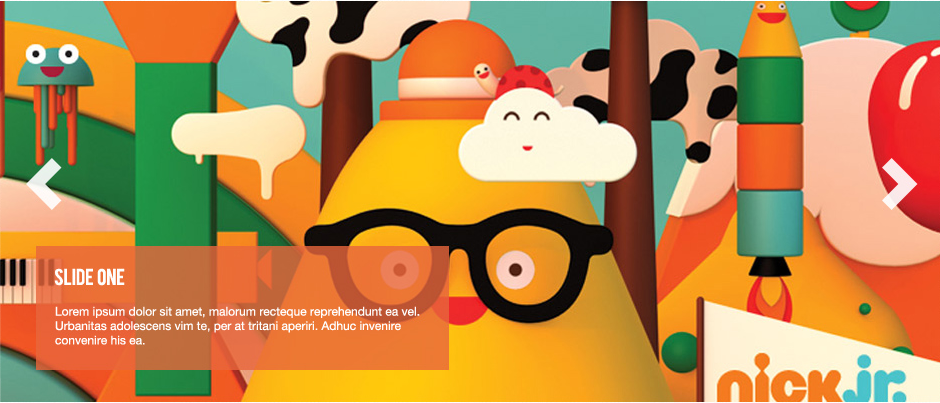
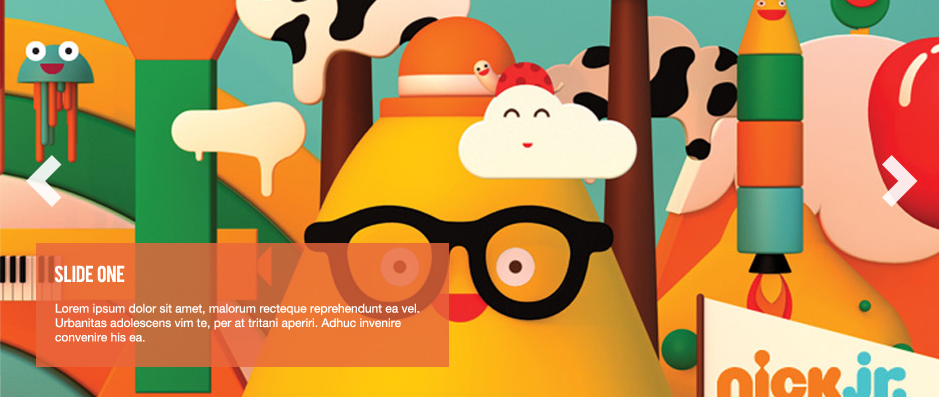
11/07 22/39

diff --git a/css/styles.css b/css/styles.css
@@ -1,7 +1,7 @@
 body{
     color: black;
     font: 12px "Oswald";
-    background-color: #ffffff;
+    background-color: #fff;
     margin: auto;
 }
 
@@ -12,6 +12,11 @@ input[type="text"] {
     color: black;
     padding: 0 10px;
     vertical-align: top;
+}
+
+.container{
+    width: 920px;
+    margin: auto;
 }
 
 p{
@@ -57,17 +62,17 @@ nav li {
     font-weight: bold;
 }
 
-.array_menu li {
+.top-menu li {
     display: inline-block;
     padding: 0 10px;
     margin: 0;
 }
 
-.array_menu li.active {
+.top-menu li.active {
     color: #e9603c;
 }
 
-.array_menu a {
+.top-menu a {
     color: #bababa;
 }
 
@@ -82,19 +87,37 @@ nav{
     display: inline-block;
 }
 
-pol {
-    background: #f3b29e;
-    margin-top: 30px;
-
-
-}
-#pol{
-    height: 50px;
-    background: #f3b29e;
-}
 
 #block1 {
     text-align: center;
+    position: relative;
+    width: 100%;
+    margin: 0 auto;
+}
+
+#block1 img{
+    width: 100%;
+}
+
+#block1::after, #block1::before{
+    position: absolute;
+    background: #f3b29e;
+    content: "";
+    width: 1500px;
+    height: 50px;
+    display: block;
+    top: 0;
+    margin-top: 13px;
+}
+
+#block1::after{
+    left:100%;
+    margin-left: 10px;
+}
+
+#block1::before{
+    right:100%;
+    margin-right: 10px;
 }
 
 #blocks{
@@ -168,11 +191,6 @@ pol {
     padding-right: 17px;
 }
 
-footer {
-    background: #f3b29e;
-    margin-top: 30px;
-}
-
 #footer div {
     display: inline-block;
 }
@@ -180,10 +198,29 @@ footer {
 #footer{
     color: white;
     background-color: #e7663c;
-    max-width: 920px;
-    margin: auto;
     padding: 30px 0;
+    margin-top: 30px;
+    height: 200px;
+    position: relative;
+    width: 100%;
+}
+
+#footer::after, #footer::before{
+    position: absolute;
+    background: #f3b29e;
+    content: "";
+    width: 1500px;
     height: 240px;
+    display: block;
+}
+
+#footer::after{
+    left:100%;
+    margin-left: 10px;
+}
+#footer::before{
+    right:100%;
+    margin-right: 10px;
 }
 
 #footer hf {
@@ -193,19 +230,20 @@ footer {
     font-weight: bold;
 }
 
-#footer p {
-    padding: 10px 30px;
-}
 
 #footer a {
     color: #dbdbdb;
-    padding: 0 30px;
 }
 
 #about-us{
     float: left;
     width: 279px;
     margin: auto;
+}
+
+#about-us p{
+    margin-left: 30px;
+    width: 90%;
 }
 
 #twitterf{
@@ -216,12 +254,21 @@ footer {
 
 #twitterf div{
     display: inline-block;
+    padding-left: 30px;
+    float: left;
+    margin-bottom: 5px;
 }
 
+#twitterf a {
+    text-decoration: none;
+}
 #twitterf p {
-     float: left;
- }
+    width: 100%;
+}
 
+#twitterf author {
+    padding: 0 5px;
+}
 #social{
     width: 279px;
     float: left;
@@ -234,18 +281,6 @@ footer {
     background: url(../images/social.png) no-repeat;
     display: inline-block;
     margin-right: 10px;
-}
-
-.twitter {
-    background-position: 0 0px;
-}
-
-.facebook {
-    background-position: 0 0;
-}
-
-.google-plus {
-    background-position: 0 0;
 }
 
 

diff --git a/index.php b/index.php
@@ -27,7 +27,7 @@ $array_menu = array(
 );
 ?>
         <nav>
-            <ul>
+            <ul class = "top-menu">
                 <li><a href='<?=$array_menu [0] ["href"]?>'><?=$array_menu [0] ["link"]?></a></li>
                 <li><a href='<?=$array_menu [1] ["href"]?>'><?=$array_menu [1] ["link"]?></a></li>
                 <li><a href='<?=$array_menu [2] ["href"]?>'><?=$array_menu [2] ["link"]?></a></li>
@@ -36,69 +36,63 @@ $array_menu = array(
             </ul>
         </nav>
     </header>
-    <pol>
-        <div id="pol">
-        </div>
-    </pol>
-    <block1>
+    <div class="container">
         <div id="block1">
-            <a href="#"><img src="images/img1.png" width="920" height="386"></a>
+            <a href="#"><img src="images/img1.png" width="939" height="397"></a>
         </div>
-    </block1>
-    <div id="blocks">
-        <div id="block2">
-            <a href="#"><img src="images/b21.png" width="141" height="140"></a>
-            <a href="#"><img src="images/b22.png" width="141" height="140"></a>
-            <a href="#"><img src="images/b23.png" width="141" height="140"></a>
-            <a href="#"><img src="images/b24.png" width="141" height="140"></a>
-            <a href="#"><img src="images/b25.png" width="141" height="140"></a>
-            <b href="#"><img src="images/b26.png" width="141" height="140"></b>
-        </div>
-        <block3>
-            <div id="block3">
-                <div id="column1">
-                    <a href="#"><img src="images/b31.png" width="50" height="50"></a>
-                    <h1>CHECK OUT MY LATEST PORTFOLIO ITEMS</h1>
-                    <p>Maecenas ipsum metus, semper  henrerit  varius mattis, congue  sit amet tellus.
-                        Aliquam ullamcorper dui sed magna posue re ut elementum enim  rutrum.
-                        Nam mi erat, porta id ultrices nec, pellentesque vel nunc.
-                        Cras varius fermentum iaculis.
-                        Aenean sodales nibh non lectus tempor a interdum justo ultricies</p>
-                    <button type="submit">MORE</button>
-                </div>
-                <div id="column2">
-                <a href="#"><img src="images/b32.png" width="50" height="50"></a>
-                <h1>OFFER TOP NOTCH QUALITY WORK & SERVICES</h1>
-                    <p>Maecenas ipsum metus, semper  henrerit  varius mattis, congue  sit amet tellus.
-                        Aliquam ullamcorper dui sed magna posue re ut elementum enim  rutrum.
-                        Nam mi erat, porta id ultrices nec, pellentesque vel nunc.
-                        Cras varius fermentum iaculis.
-                        Aenean sodales nibh non lectus tempor a interdum justo ultricies</p>
-                    <button type="submit">MORE</button>
-                </div>
-                <div id="column3">
-                <a href="#"><img src="images/b33.png" width="50" height="50"></a>
-                <h1>FOLLOW ME  ON TWITTER FACEBOOK & PRINTEREST</h1>
-                    <p>Maecenas ipsum metus, semper  henrerit  varius mattis, congue  sit amet tellus.
-                        Aliquam ullamcorper dui sed magna posue re ut elementum enim  rutrum.
-                        Nam mi erat, porta id ultrices nec, pellentesque vel nunc.
-                        Cras varius fermentum iaculis.
-                        Aenean sodales nibh non lectus tempor a interdum justo ultricies</p>
-                    <button type="submit">MORE</button>
-                </div>
+        <div id="blocks">
+            <div id="block2">
+                <a href="#"><img src="images/b21.png" width="141" height="140"></a>
+                <a href="#"><img src="images/b22.png" width="141" height="140"></a>
+                <a href="#"><img src="images/b23.png" width="141" height="140"></a>
+                <a href="#"><img src="images/b24.png" width="141" height="140"></a>
+                <a href="#"><img src="images/b25.png" width="141" height="140"></a>
+                <b href="#"><img src="images/b26.png" width="141" height="140"></b>
             </div>
-        </block3>
-        <div id="block4">
-            <h1>RECENT WORKS</h1>
+            <block3>
+                <div id="block3">
+                    <div id="column1">
+                        <a href="#"><img src="images/b31.png" width="50" height="50"></a>
+                        <h1>CHECK OUT MY LATEST PORTFOLIO ITEMS</h1>
+                        <p>Maecenas ipsum metus, semper  henrerit  varius mattis, congue  sit amet tellus.
+                            Aliquam ullamcorper dui sed magna posue re ut elementum enim  rutrum.
+                            Nam mi erat, porta id ultrices nec, pellentesque vel nunc.
+                            Cras varius fermentum iaculis.
+                            Aenean sodales nibh non lectus tempor a interdum justo ultricies</p>
+                        <button type="submit">MORE</button>
+                    </div>
+                    <div id="column2">
+                    <a href="#"><img src="images/b32.png" width="50" height="50"></a>
+                    <h1>OFFER TOP NOTCH QUALITY WORK & SERVICES</h1>
+                        <p>Maecenas ipsum metus, semper  henrerit  varius mattis, congue  sit amet tellus.
+                            Aliquam ullamcorper dui sed magna posue re ut elementum enim  rutrum.
+                            Nam mi erat, porta id ultrices nec, pellentesque vel nunc.
+                            Cras varius fermentum iaculis.
+                            Aenean sodales nibh non lectus tempor a interdum justo ultricies</p>
+                        <button type="submit">MORE</button>
+                    </div>
+                    <div id="column3">
+                    <a href="#"><img src="images/b33.png" width="50" height="50"></a>
+                    <h1>FOLLOW ME  ON TWITTER FACEBOOK & PRINTEREST</h1>
+                        <p>Maecenas ipsum metus, semper  henrerit  varius mattis, congue  sit amet tellus.
+                            Aliquam ullamcorper dui sed magna posue re ut elementum enim  rutrum.
+                            Nam mi erat, porta id ultrices nec, pellentesque vel nunc.
+                            Cras varius fermentum iaculis.
+                            Aenean sodales nibh non lectus tempor a interdum justo ultricies</p>
+                        <button type="submit">MORE</button>
+                    </div>
+                </div>
+            </block3>
+            <div id="block4">
+                <h1>RECENT WORKS</h1>
+            </div>
+            <div id="block5">
+                <a href="#"><img src="images/b41.png" width="215" height="215"></a>
+                <a href="#"><img src="images/b42.png" width="215" height="215"></a>
+                <a href="#"><img src="images/b43.png" width="215" height="215"></a>
+                <b href="#"><img src="images/b44.png" width="215" height="215"></b>
+            </div>
         </div>
-        <div id="block5">
-            <a href="#"><img src="images/b41.png" width="215" height="215"></a>
-            <a href="#"><img src="images/b42.png" width="215" height="215"></a>
-            <a href="#"><img src="images/b43.png" width="215" height="215"></a>
-            <b href="#"><img src="images/b44.png" width="215" height="215"></b>
-        </div>
-    </div>
-    <footer>
         <div id="footer">
             <div id="about-us">
                 <hf>ABOUT JETRO</hf>
@@ -110,20 +104,16 @@ $array_menu = array(
             <div id="twitterf">
                 <hf>TWITTER WIDGET</hf>
                 <div>
-                    <p>
-                        <span >@pixelmater</span>
-                        <span> What an awesome design with great functionality :)</span>
-                    </p>
-                </div>
+                    <p><a name="@pixelmater"><a href="#">@designdude</a>What an awesome design with great functionality :)</p>
                     <time datetime="2012-10-23"><a href="#">about 1 hour ago</a></time>
-                <div>
-                    <author name="@designdude"><a href="#">@designdude</a>
-                    <p>What an awesome design with great functionality :)</p></author>
                 </div>
-                <time datetime="2012-10-23"><a href="#">about 2 hour ago</a></time>
+
                 <div>
-                    <p>Follow</p>
-                    <author name="@pixelmater"><a href="#">@pixelmater</a></author>
+                     <p><a name="@designdude"><a href="#">@designdude</a>What an awesome design with great functionality :)</p></a>
+                     <time datetime="2012-10-23"><a href="#">about 2 hour ago</a></time>
+                </div>
+                <div>
+                    <p>Follow<author name="@pixelmater"><a href="#">@pixelmater</a></author></p>
                 </div>
             </div>
             <div id="social">
@@ -133,11 +123,11 @@ $array_menu = array(
                 <div>
                     <p>information@jetro.com</br>1.222.333.4444</p>
                 </div>
-                
-               
+
+
                 <a href="http://plus.google.com/" class="social-icon google-plus"></a>
             </div>
         </div>
-    </footer>
+    </div>
 </body>
 </html>
